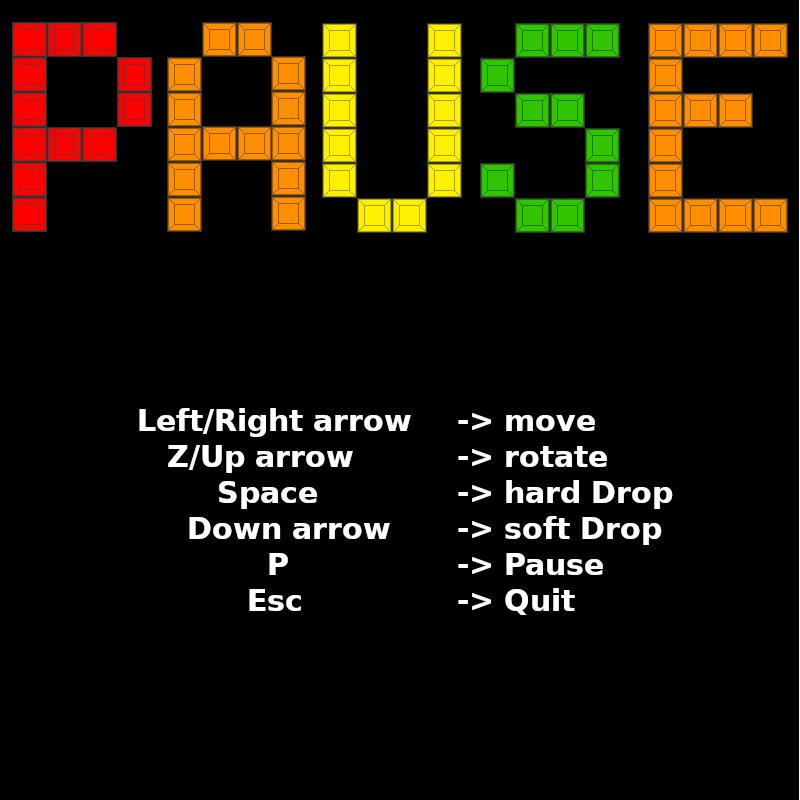
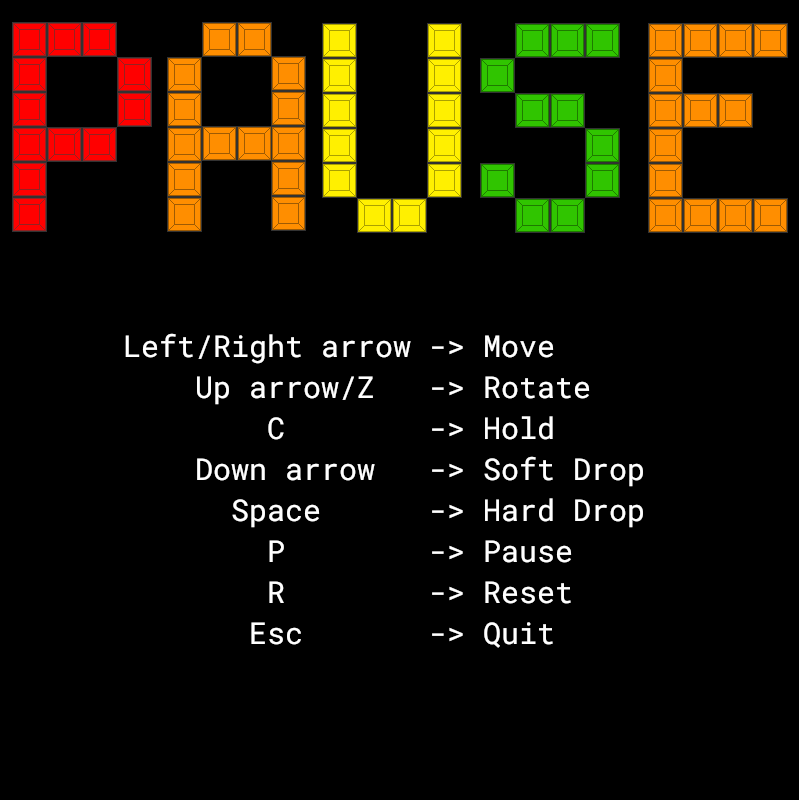
improved pause and game over screens

Changed region(s): [[0.1562, 0.4062, 0.5312, 0.8125], [0.5625, 0.4062, 0.8438, 0.8125]]

diff --git a/main.py b/main.py
@@ -105,13 +105,13 @@ def displayHighscore(filename: str, screen: pygame.Surface):
     highscore = loadHighscore(filename)
 
     surf = robotoMono.render("Highscores:", True, "White")
-    rect = surf.get_rect(center = (screen.get_rect().centerx, screen.get_rect().top + 300))
+    rect = surf.get_rect(center = (screen.get_rect().centerx, screen.get_rect().top + 400))
     screen.blit(surf, rect)
 
     i = 1
     for key, value in highscore.items():
         surf = robotoMono.render(f"{value} on {key}", True, "White")
-        rect = surf.get_rect(center = (screen.get_rect().centerx, screen.get_rect().top + (i * 50 + 300)))
+        rect = surf.get_rect(center = (screen.get_rect().centerx, screen.get_rect().top + (i * 50 + 400)))
         i += 1
 
         screen.blit(surf, rect)
